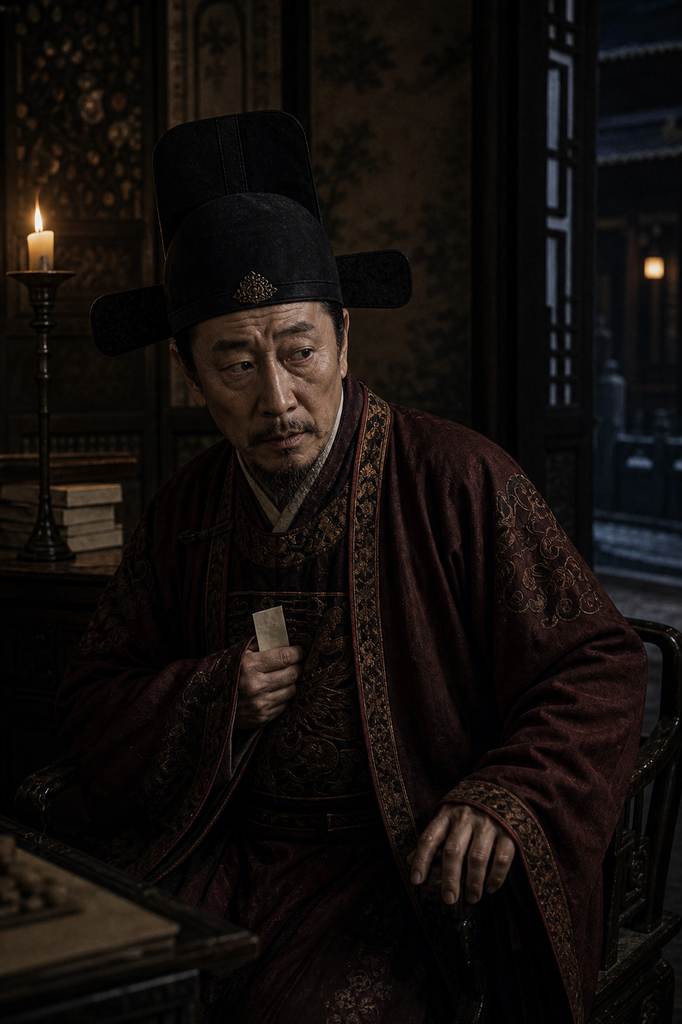
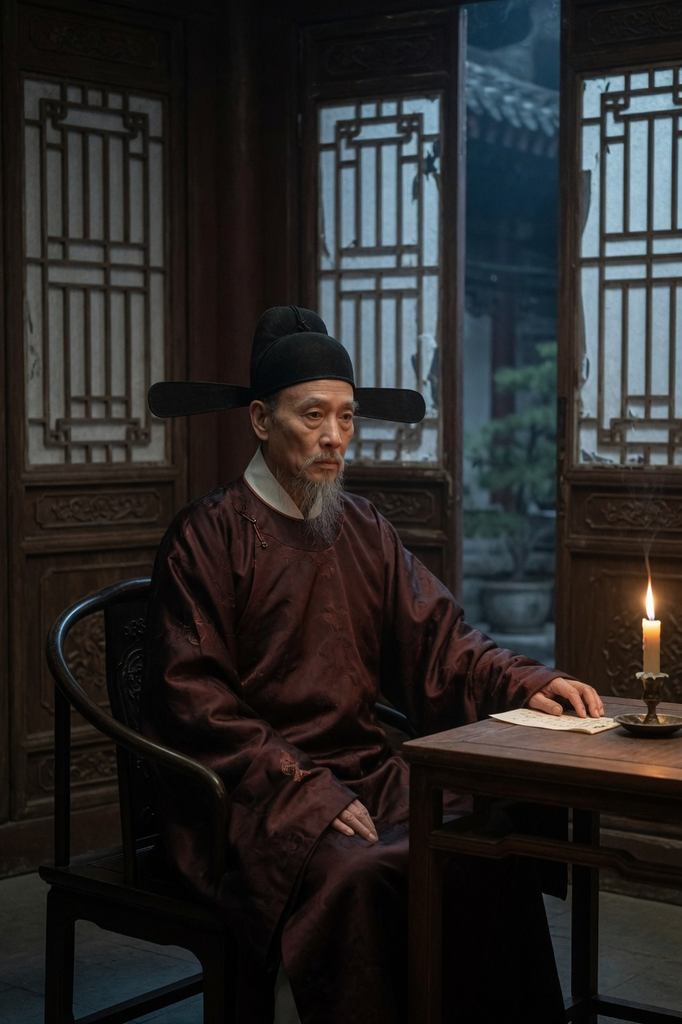
grok: art: 八名开局朝臣立绘重选角
温体仁、周延儒、崔呈秀、吴昌时、黄立极、王体乾、曹化淳、来宗道：拆同一张官脸、拆递纸剪影，改腰背直、晚明汉人衣冠。

diff --git a/docs/portrait-prompts-first-impression-8.md b/docs/portrait-prompts-first-impression-8.md
@@ -1,0 +1,103 @@
+# 八人立绘卡
+
+崇祯朝、汉人、晚明衣冠。文书无字或文面朝下。不参考现盘立绘。
+
+文官：展脚乌纱、盘领袍、补子。展脚是扁平黑纱横翅，不是羽毛。内官：太监帽，不要展脚。
+
+**腰背要直。** 这是朝廷命官，站有站相、坐有坐相。性格不靠塌肩、半躬、缩进袍里来表现，靠手里在做什么、眼睛看哪里。不要八个人都像在偷东西。
+
+温体仁、周延儒、吴昌时、黄立极四人脸骨分开。差在汉人内部的肥瘦、宽窄、年纪、须形。
+
+---
+
+## 温体仁
+
+礼部右侍郎。五十四岁。汉人。
+
+暖阁。明式屏风、宫灯、小几、暗色漆匣。他坐在椅上，腰背垂直，双肩平，袍面无皱，是堂上见惯的侍郎坐法。右手把一封折好的无字纸从袖口送进案角漆匣底下，动作小，不探身，不伸臂递给镜头。左手仍按在膝上或拢在袖中。眼睛看着匣沿。嘴角有一点礼，眼里没有。
+
+脸小，椭圆收尖，眉骨低，两眼偏近，鼻细，唇薄。须只贴唇沿。室内白净。不要宽脸、不要络腮、不要三角须男主。
+
+衣：暗红褐盘领侍郎袍，补子克制，展脚乌纱，两侧黑纱横翅完整。无披风。
+
+---
+
+## 周延儒
+
+四十出头。汉人。通州明军布帐。
+
+他站在帐内，腰直，不靠柱子把身体挂上去。可以一只手轻轻扶着木帐柱，人仍是站直的文官。脚在帐门这一侧，没有迈出去。另一手把封好的无字捷报按进胸前披风内侧。案上败报被袖口压住一角。眼睛斜向帐外火光，对不上。衣冠仍端正，只有披风和靴边有土。
+
+脸中段比温体仁宽，颊上有一点松肉。两鬓略疏，黑发夹白。眼距略开。颏下一缕不长的散须。不要白人、不要毡帽、不要欧式大衣、不要鸟翅膀帽。
+
+衣：深蓝黑盘领袍，暗色厚披风，展脚乌纱，两侧扁平黑纱翅。
+
+---
+
+## 崔呈秀
+
+兵部尚书。四十三岁。汉人。夜间值房。
+
+短颈，脸横着宽，额低有油光，粗眉，肉鼻，齐黑须，肤色红黑。他站在册案前，腰直，腹微前，仍是尚书的站法，不是折腰讨好。右手把一卷封缄无字纸送进厚册夹缝，左手扣铜扣。下巴对着册，不是对着镜头递纸。
+
+衣：深红黑盘领尚书袍，补子满，腰带厚，展脚乌纱，两侧黑纱横翅完整。不要甲，不要瘦长脸。
+
+---
+
+## 吴昌时
+
+吏部司属。三十六岁。汉人。比其余文官年轻。
+
+雨夜，吏部廊下连相府后门。他站直，不猫腰。侧过一点身，仍是官袍站姿。一手把空白名册放进后廊空木匣，另一手袖口挡住小银匣。眼睛同时瞟门缝和廊外。
+
+瘦，高颧，颊收，眉上挑，眼细长，鼻短小，下颌尖。上唇几乎无须。肤色比温体仁深。不要华服、不要尚书补子、不要四十岁男主脸、不要鸟翅膀帽。
+
+衣：深褐盘领中低阶袍，素展脚乌纱，扁平黑纱翅。
+
+---
+
+## 黄立极
+
+内阁首辅。五十九岁。汉人。
+
+午夜内阁值房。圈椅、小几、残烛、门缝一线冷光。他坐在首辅该坐的位置上，腰背靠椅却不塌，双肩仍平，袍袖垂着，像还在值夜。左手按在椅臂或几沿。右手袖口压住几上一张极小的纸札，纸几乎被袖盖住。眼睛望向门缝，没有起身逃，也没有缩成一团。房间暗，人仍是坐着的首辅。
+
+脸垂直偏长，颊塌，太阳穴瘦，东亚眼睑，黑夹白发。眉稀，眼小。唇薄。须灰白、稀、贴颌，不是络腮长髯。肤色暗黄。不要洋修士、不要西式椅、不要阴毒反派、不要软翅或鸟翅。
+
+衣：黑红盘领袍，金线很少，展脚乌纱，两侧硬质黑纱横翅完整。明式圈椅。
+
+---
+
+## 王体乾
+
+司礼监掌印太监。五十六岁。汉人。无须。
+
+司礼值房。他站在印案旁，腰直，肩平，是内廷掌印的站法。人离案半步，不是缩。右手搭在朱漆印匣盖上，没有揭。左手把无字奏疏推向空屏风。眼睛看屏风边缘，不看印。
+
+长脸，颊松，眼皮厚，眼神不聚焦。苍白，眼袋深。不要圆脸、不要胡须、不要展脚乌纱、不要鸟翅。
+
+衣：深黑紫内官袍，暗金云纹，太监帽（紧口、无横翅）。
+
+---
+
+## 曹化淳
+
+信邸内官。三十八岁。汉人。无须。比王体乾年轻，脸更紧、更圆。
+
+紧闭朱门。他站直，半侧对门，不是贴门软下去。右手按着门闩，没有推。左手把封缄文书持在身前。头转回来，像在对人说话。内官的腰杆仍在。
+
+圆脸不肥，额平，唇抿。不要长脸松垂、不要展脚、不要把门房画成鞠躬。
+
+衣：深紫黑内官袍，太监帽，无横翅。
+
+---
+
+## 来宗道
+
+礼部尚书。六十七岁。汉人。本批最老。
+
+廊下。一只脚已踏出门槛，腰背仍直，不是哈着腰往外溜。身体微微转向门内，作一个浅礼，头略低，背不驼。右手扶帘。左手把封好的纸压进袖，只留一角，不要整封捧在胸前展示。
+
+圆脸微胖，重颏，眼袋厚，短白须贴下巴。不要瘦长脸、不要没展脚的圆帽。
+
+衣：深褐红盘领尚书袍，展脚乌纱，两侧扁平黑纱横翅完整。
